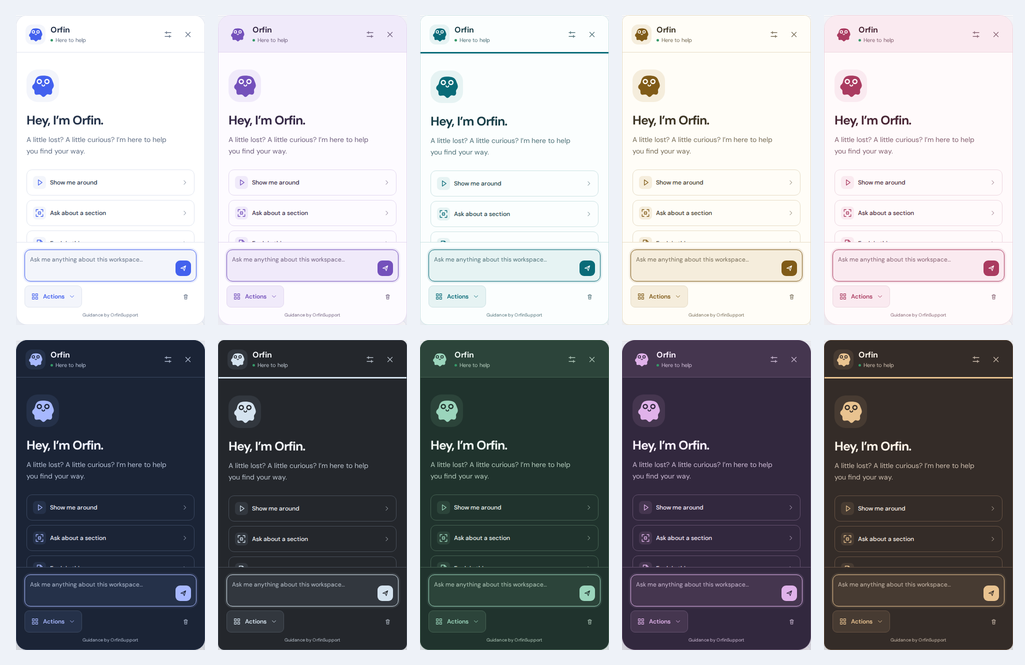
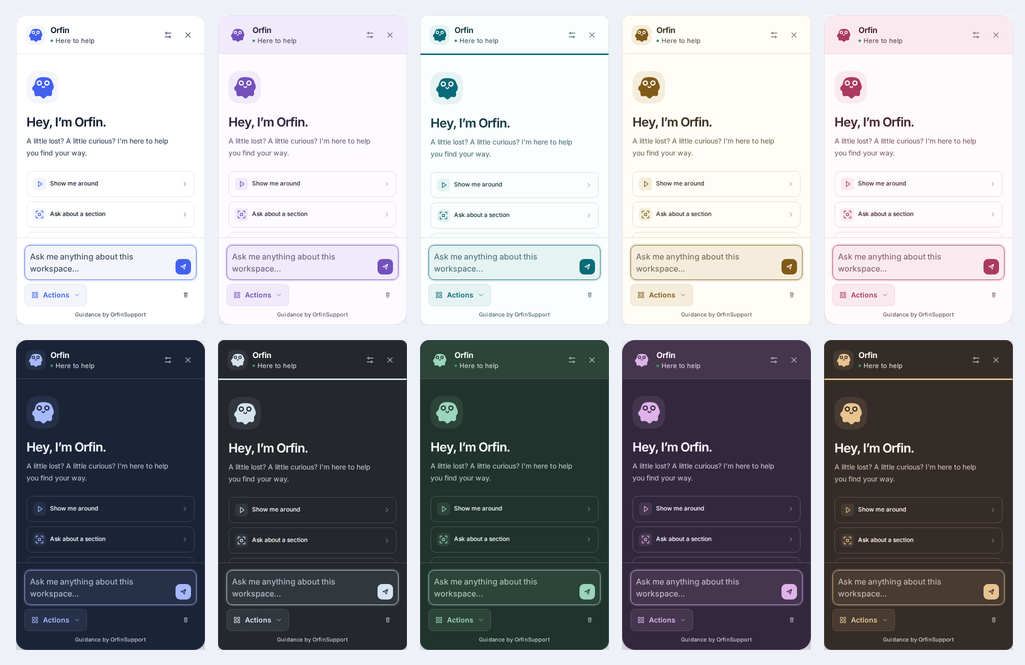
Use clearer typography across the workspace and assistant demos

diff --git a/demo/assistant-typography.css b/demo/assistant-typography.css
@@ -1,0 +1,53 @@
+[data-orfin-root]:not([data-theme='none']) {
+  --orfin-font: 'Inter Variable', ui-sans-serif, system-ui, sans-serif;
+}
+
+[data-orfin-root][data-theme='cloud'] {
+  --orfin-text: #162235;
+  --orfin-muted: #39465c;
+}
+
+[data-orfin-root]:not([data-theme='none'])::part(orfin) {
+  font-weight: 450;
+}
+
+[data-orfin-root]:not([data-theme='none'])::part(message) {
+  font-size: 15px;
+  line-height: 1.7;
+}
+
+[data-orfin-root]:not([data-theme='none'])::part(input) {
+  font-size: 16px;
+}
+
+[data-orfin-root]:not([data-theme='none'])::part(actions-trigger),
+[data-orfin-root]:not([data-theme='none'])::part(action-item),
+[data-orfin-root]:not([data-theme='none'])::part(primary),
+[data-orfin-root]:not([data-theme='none'])::part(secondary),
+[data-orfin-root]:not([data-theme='none'])::part(theme),
+[data-orfin-root]:not([data-theme='none'])::part(language) {
+  font-size: 14px;
+}
+
+[data-orfin-root]:not([data-theme='none'])::part(status),
+[data-orfin-root]:not([data-theme='none'])::part(tool),
+[data-orfin-root]:not([data-theme='none'])::part(context),
+[data-orfin-root]:not([data-theme='none'])::part(message-label),
+[data-orfin-root]:not([data-theme='none'])::part(motion-hint),
+[data-orfin-root]:not([data-theme='none'])::part(tour-inline) {
+  font-size: 13px;
+}
+
+[data-orfin-root]:not([data-theme='none'])::part(source),
+[data-orfin-root]:not([data-theme='none'])::part(footer),
+[data-orfin-root]:not([data-theme='none'])::part(spot-label) {
+  font-size: 11px;
+}
+
+[data-orfin-root]:not([data-theme='none'])::part(status),
+[data-orfin-root]:not([data-theme='none'])::part(tool),
+[data-orfin-root]:not([data-theme='none'])::part(source),
+[data-orfin-root]:not([data-theme='none'])::part(footer),
+[data-orfin-root]:not([data-theme='none'])::part(motion-hint) {
+  color: color-mix(in srgb, var(--text) 85%, var(--surface));
+}

diff --git a/demo/styles.css b/demo/styles.css
@@ -1,14 +1,15 @@
 :root {
-  font-family: 'DM Sans', sans-serif;
-  color: #25334a;
+  font-family: 'Inter Variable', ui-sans-serif, system-ui, sans-serif;
+  color: #162235;
   background: #f6f8fc;
   font-synthesis: none;
   font-optical-sizing: auto;
   font-size: 16px;
+  font-weight: 450;
   line-height: 1.5;
   --cobalt: #4361ee;
-  --ink: #25334a;
-  --muted: #4f5e75;
+  --ink: #162235;
+  --muted: #354259;
   --line: #e9edf4;
 }
 * {
@@ -103,7 +104,7 @@ button:disabled {
   border-radius: 9px;
 }
 .version {
-  font-family: 'DM Sans', sans-serif;
+  font-family: 'Inter Variable', ui-sans-serif, system-ui, sans-serif;
   font-size: 12px;
   font-weight: 500;
   color: var(--muted);
@@ -190,11 +191,11 @@ button:disabled {
   line-height: 1.2;
 }
 .workspace-brand > span > span {
-  font-family: 'DM Sans', sans-serif;
+  font-family: 'Inter Variable', ui-sans-serif, system-ui, sans-serif;
   display: block;
   font-size: 12px;
   color: var(--muted);
-  font-weight: 400;
+  font-weight: 450;
   letter-spacing: 0;
   margin-top: 6px;
 }
@@ -365,7 +366,7 @@ button:disabled {
   display: block;
   color: var(--muted);
   font-size: 13px;
-  font-weight: 400;
+  font-weight: 450;
   margin-top: 3px;
 }
 .user-avatar {
@@ -658,10 +659,10 @@ button:disabled {
   gap: 9px;
 }
 .pulse-stat strong > span {
-  font-family: 'DM Sans', sans-serif;
+  font-family: 'Inter Variable', ui-sans-serif, system-ui, sans-serif;
   font-size: 13px;
   color: var(--muted);
-  font-weight: 400;
+  font-weight: 450;
   letter-spacing: 0;
 }
 .positive {

diff --git a/examples/next/app/layout.tsx b/examples/next/app/layout.tsx
@@ -1,5 +1,7 @@
 import type { ReactNode } from 'react';
 import { Assistant } from './assistant';
+import '@fontsource-variable/inter/wght.css';
+import '../../../demo/assistant-typography.css';
 
 export const metadata = { title: 'OrfinSupport · Next.js example' };
 
@@ -8,13 +10,14 @@ export default function RootLayout({ children }: { children: ReactNode }) {
     <html lang="en">
       <body
         style={{
-          fontFamily: 'system-ui',
+          fontFamily: "'Inter Variable', system-ui, sans-serif",
           fontSize: 17,
+          fontWeight: 450,
           lineHeight: 1.65,
           margin: 0,
           padding: 'clamp(20px, 4vw, 40px)',
           background: '#f4f7fc',
-          color: '#25334a',
+          color: '#162235',
         }}
       >
         {children}

diff --git a/demo/main.tsx b/demo/main.tsx
@@ -1,16 +1,14 @@
 import React from 'react';
 import { createRoot } from 'react-dom/client';
-import '@fontsource/dm-sans/400.css';
-import '@fontsource/dm-sans/500.css';
-import '@fontsource/dm-sans/600.css';
-import '@fontsource/dm-sans/700.css';
 import '@fontsource/manrope/500.css';
 import '@fontsource/manrope/600.css';
 import '@fontsource/manrope/700.css';
 import '@fontsource/manrope/800.css';
+import '@fontsource-variable/inter/wght.css';
 import { App } from './ui/App';
 import './styles.css';
 import './rich.css';
+import './assistant-typography.css';
 
 createRoot(document.getElementById('root')!).render(
   <React.StrictMode>

diff --git a/demo/rich.css b/demo/rich.css
@@ -555,7 +555,7 @@
   margin: 10px 0;
 }
 .report-number small {
-  font-family: 'DM Sans', sans-serif;
+  font-family: 'Inter Variable', ui-sans-serif, system-ui, sans-serif;
   font-size: 15px;
   color: var(--muted);
   letter-spacing: 0;

diff --git a/docs/DESIGN.md b/docs/DESIGN.md
@@ -13,7 +13,9 @@ Orfin is a small guide who belongs in the product. The demo is Northstar, a crea
 | Ice    | `#e7edff` | Selected and contextual states |
 | Fern   | `#dff2e4` | Positive progress              |
 
-Manrope sets the workspace headings and DM Sans carries readable UI text. Type is left aligned. The workspace has a 16px base with a 1.5 line height, 15–16px reading text and 12–14px compact labels. Secondary text uses `#4f5e75` so navigation, dates and chart labels remain distinct against the pale canvas. Mobile layouts preserve readable type and wrap or scroll dense content instead of shrinking labels. Main content uses a generous 32px rhythm, and the assistant uses a softer 20px shell with tighter interior controls.
+Manrope sets the workspace headings and Inter carries the interface and conversation text. Inter uses its text-size outlines at weight 450 for ordinary text; labels and actions use medium or semibold weights. Type is left aligned. The workspace uses `#162235` for primary text and has a 16px base with a 1.5 line height, 15–16px reading text and 12–14px compact labels. Secondary text uses `#354259` so navigation, dates and chart labels remain distinct against the pale canvas. Mobile layouts preserve readable type and wrap or scroll dense content instead of shrinking labels. Main content uses a generous 32px rhythm, and the assistant uses a softer 20px shell with tighter interior controls.
+
+The demo and Next example load the font locally. Their shared `demo/assistant-typography.css` uses the public CSS variable and shadow parts to give chat messages 15px type and the composer 16px type. Overrides apply only to preset themes; the project-owned serif appearance stays independent. The library itself does not bundle a font.
 
 Documentation captures use the current demo styles. The GIF is recorded at its native 1080px width without resampling text; static screenshots retain their original browser pixels.
 

diff --git a/THIRD_PARTY_NOTICES.md b/THIRD_PARTY_NOTICES.md
@@ -4,7 +4,7 @@ OrfinSupport's source code is MIT licensed. Dependencies retain their own licens
 
 The static playground includes the following assets and libraries. Their license notices are also distributed with the built site under `licenses/`:
 
-- [DM Sans](demo/public/licenses/DM-Sans.txt) — SIL Open Font License, distributed through Fontsource.
+- [Inter](demo/public/licenses/Inter.txt) — SIL Open Font License, distributed through Fontsource.
 - [Manrope](demo/public/licenses/Manrope.txt) — SIL Open Font License, distributed through Fontsource.
 - [Lucide](demo/public/licenses/Lucide.txt) — ISC license and included upstream notices.
 - [Lit](demo/public/licenses/Lit.txt) — BSD 3-Clause license.

diff --git a/README.md b/README.md
@@ -525,6 +525,8 @@ The automated suite covers fragmented SSE and Unicode, tool argument validation,
 
 `npm run capture:demo` regenerates the GIF and screenshots from a running playground. `npm run build:demo` builds the static site.
 
+The demos use locally hosted Inter with stronger text contrast and larger conversation text. The [shared typography overrides](demo/assistant-typography.css) demonstrate changing the widget through public CSS variables and shadow parts while keeping project-owned styles independent. The README GIF is recorded at its native resolution so text is not resampled.
+
 ## Repository and release
 
 - **`main`** — library source, tests, documentation, examples and demo source.

diff --git a/docs/STYLING.md b/docs/STYLING.md
@@ -2,6 +2,8 @@
 
 OrfinSupport supports three levels of styling: a complete preset, preset overrides, and a project-owned appearance with no preset at all. All framework adapters use the same settings.
 
+The Northstar demo and Next example use locally hosted Inter, stronger text contrast, 15px conversation text and a 16px composer. Their [shared typography stylesheet](../demo/assistant-typography.css) uses the public CSS variable and shadow parts, and stops applying when `theme: 'none'` is selected. Fonts belong to your application; the npm widget does not download them or require Inter.
+
 ## Disable the preset
 
 ```ts
